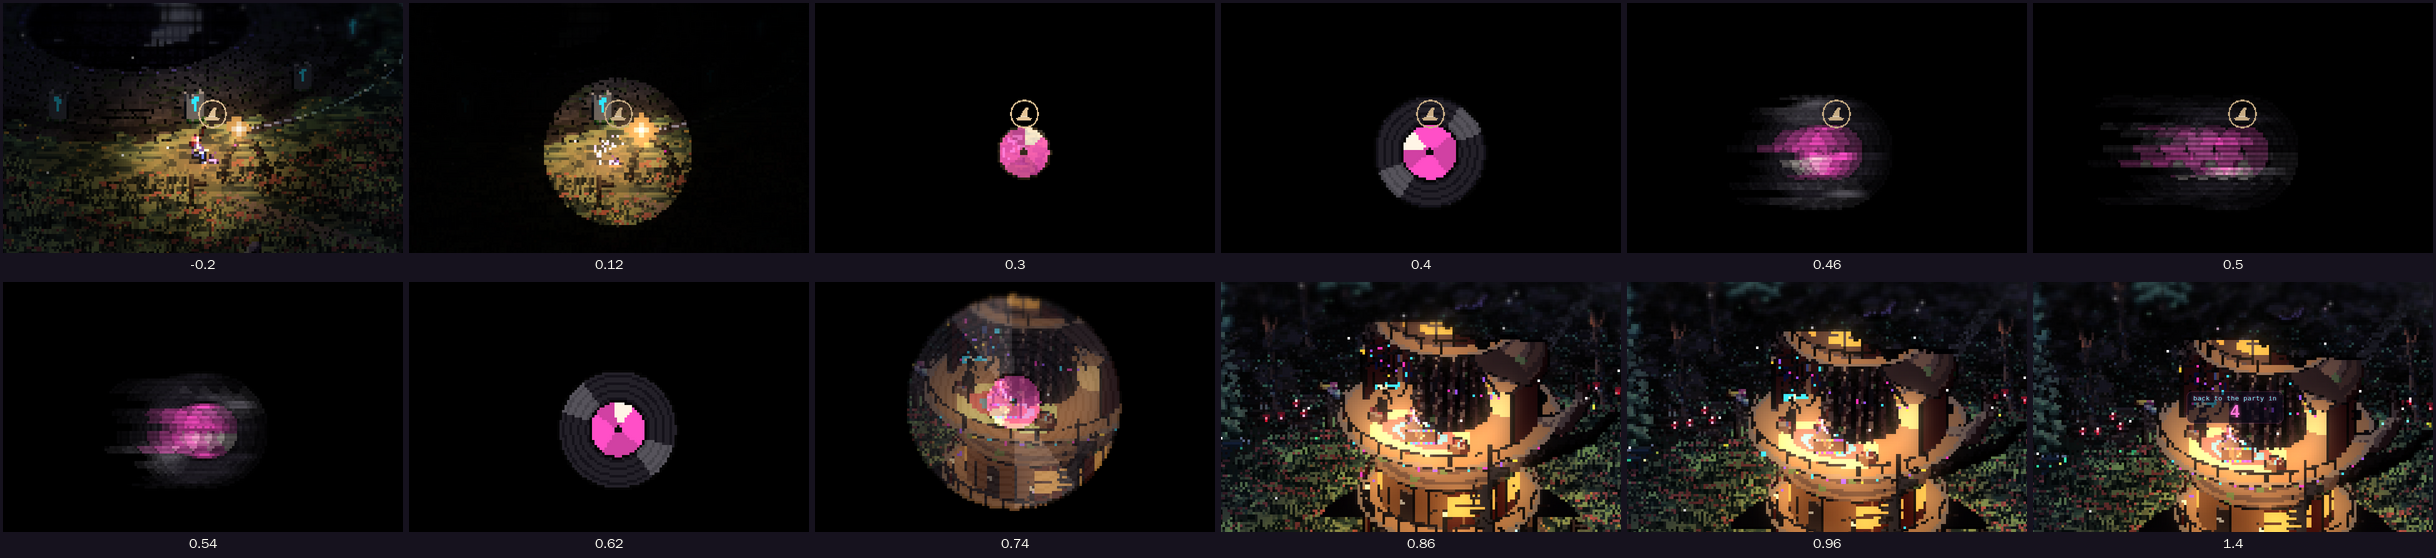
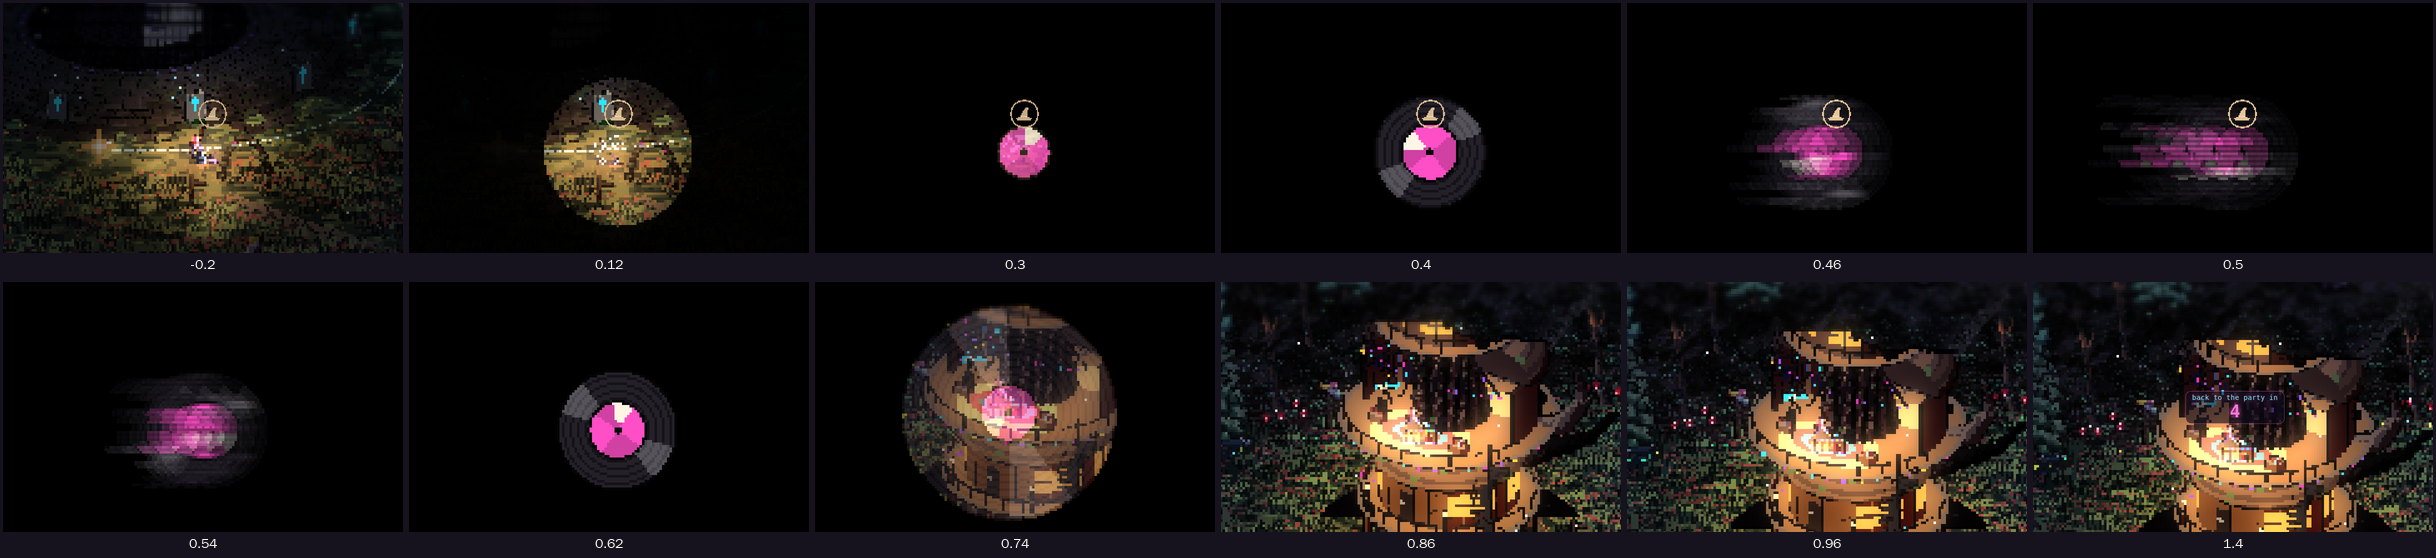
Hat iris: open on the platter (new treehouse anchor), art4's scratch frame till her routine
The treehouse gains anchors.platter (the pink-labelled turntable's centre); the iris opens on it.
From the cut to ko.inAt she's drawn in the scratch gesture's first frame, then her respawn
routine (rules/djSet.ts) takes over, as art builder 4 asked.

Claude-Session: https://claude.ai/code/session_01VVaLYY2sU2dqSozCTw7Z4G

diff --git a/art/treehouse.js b/art/treehouse.js
@@ -224,8 +224,8 @@ function treehouseModel(facing = "towards") {
   return { m, lights, dj, seat: DJ_STAND, door: [Math.cos(Math.PI / 2 + .05) * S.porch.R, S.porch.y, Math.sin(Math.PI / 2 + .05) * (S.porch.R + .05)], camera: [0, sy + .95, 1.9], splitY: sy + S.studio.h + 1.5, footprint: 4.3, crownR, trunkR: 1.55 }; // trunkR: its radius 3 m up
 }
 
-// The treehouse at the witch's scale: { whole, top, bot, fore, crownY, anchors: { base, seat, door, camera, lights: [{ x, y, rgb, kind }] }, metres }.
-// base: the trunk's foot on the ground (place the treehouse by it); seat: where her sit pose's anchor goes (the studio's floor under her
+// The treehouse at the witch's scale: { whole, top, bot, fore, crownY, anchors: { base, seat, platter, door, camera, lights: [{ x, y, rgb, kind }] }, metres }.
+// base: the trunk's foot on the ground (place the treehouse by it); platter: the pink-labelled turntable's centre (the knockout's iris opens on it, render/koIris.ts); seat: where her sit pose's anchor goes (the studio's floor under her
 // stool); door: the porch's front door; camera: the studio's middle, near her seat (to frame for the opening zoom); lights: its light sources.
 // top is the crown and everything above the studio's roof (the loft and the tower over the treeline: drawn in treetop mode, cut out round
 // the witch); bot the rest. metres: height and width; towerFloor and roofTip (the top storey's floor and the roof's tip, above the ground);
@@ -259,7 +259,7 @@ export function treehouseSprite(st = {}, { facing = "towards", ppm = 16 } = {}) 
   for (const fs of frames) for (let y = 0; y < sp.h; y++) for (let x = 0; x < sp.w; x++) if (fs.m[y * sp.w + x]) { fx0 = Math.min(fx0, x); fx1 = Math.max(fx1, x); fy0 = Math.min(fy0, y); fy1 = Math.max(fy1, y); }
   const foreFrames = frames.map(fs => { const c = new Sprite(fx1 - fx0 + 1, fy1 - fy0 + 1); for (let y = 0; y < c.h; y++) for (let x = 0; x < c.w; x++) { const i = (y + fy0) * sp.w + x + fx0; if (fs.m[i]) c.put(x, y, fs.m[i], fs.n[i * 3], fs.n[i * 3 + 1], fs.n[i * 3 + 2]); } return c; });
   const S = TREEHOUSE_STOREYS;
-  return { whole: sp, top, bot, fore, foreFrames, foreBox: { x: fx0, y: fy0 }, candles: [at(T.dj.to([DJ_DECKS.depth[1] + CANDLE.ahead, 0, DJ_DECKS.width - .1])), at(T.dj.to([DJ_DECKS.depth[1] + CANDLE.ahead, 0, -DJ_DECKS.width + .1]))], crownY, anchors: { base: at([0, 0, 0]), seat: at(T.seat), door: at(T.door), camera: at(T.camera), lights: T.lights.map(L => ({ ...at(L.at), rgb: L.rgb, kind: L.kind })) },
+  return { whole: sp, top, bot, fore, foreFrames, foreBox: { x: fx0, y: fy0 }, candles: [at(T.dj.to([DJ_DECKS.depth[1] + CANDLE.ahead, 0, DJ_DECKS.width - .1])), at(T.dj.to([DJ_DECKS.depth[1] + CANDLE.ahead, 0, -DJ_DECKS.width + .1]))], crownY, anchors: { base: at([0, 0, 0]), seat: at(T.seat), platter: at(T.dj.to([DJ_DECKS.platter.a, DJ_DECKS.top, DJ_DECKS.platter.c])), door: at(T.door), camera: at(T.camera), lights: T.lights.map(L => ({ ...at(L.at), rgb: L.rgb, kind: L.kind })) },
     metres: { height: +(sp.h / ppm).toFixed(1), width: +(sp.w / ppm).toFixed(1), towerFloor: um(S.tower.y), roofTip: um(S.tower.y + S.tower.h + 3.3 + .3), footprint: um(T.footprint), overhang: um(S.studio.deck), trunk: um(T.trunkR * 2), crown: um(T.crownR) } };
 }
 

diff --git a/tools/art-lab/dist/witch-art-lab.html b/tools/art-lab/dist/witch-art-lab.html
@@ -3442,8 +3442,8 @@ function treehouseModel(facing = "towards") {
   return { m, lights, dj, seat: DJ_STAND, door: [Math.cos(Math.PI / 2 + .05) * S.porch.R, S.porch.y, Math.sin(Math.PI / 2 + .05) * (S.porch.R + .05)], camera: [0, sy + .95, 1.9], splitY: sy + S.studio.h + 1.5, footprint: 4.3, crownR, trunkR: 1.55 }; // trunkR: its radius 3 m up
 }
 
-// The treehouse at the witch's scale: { whole, top, bot, fore, crownY, anchors: { base, seat, door, camera, lights: [{ x, y, rgb, kind }] }, metres }.
-// base: the trunk's foot on the ground (place the treehouse by it); seat: where her sit pose's anchor goes (the studio's floor under her
+// The treehouse at the witch's scale: { whole, top, bot, fore, crownY, anchors: { base, seat, platter, door, camera, lights: [{ x, y, rgb, kind }] }, metres }.
+// base: the trunk's foot on the ground (place the treehouse by it); platter: the pink-labelled turntable's centre (the knockout's iris opens on it, render/koIris.ts); seat: where her sit pose's anchor goes (the studio's floor under her
 // stool); door: the porch's front door; camera: the studio's middle, near her seat (to frame for the opening zoom); lights: its light sources.
 // top is the crown and everything above the studio's roof (the loft and the tower over the treeline: drawn in treetop mode, cut out round
 // the witch); bot the rest. metres: height and width; towerFloor and roofTip (the top storey's floor and the roof's tip, above the ground);
@@ -3477,7 +3477,7 @@ function treehouseSprite(st = {}, { facing = "towards", ppm = 16 } = {}) {
   for (const fs of frames) for (let y = 0; y < sp.h; y++) for (let x = 0; x < sp.w; x++) if (fs.m[y * sp.w + x]) { fx0 = Math.min(fx0, x); fx1 = Math.max(fx1, x); fy0 = Math.min(fy0, y); fy1 = Math.max(fy1, y); }
   const foreFrames = frames.map(fs => { const c = new Sprite(fx1 - fx0 + 1, fy1 - fy0 + 1); for (let y = 0; y < c.h; y++) for (let x = 0; x < c.w; x++) { const i = (y + fy0) * sp.w + x + fx0; if (fs.m[i]) c.put(x, y, fs.m[i], fs.n[i * 3], fs.n[i * 3 + 1], fs.n[i * 3 + 2]); } return c; });
   const S = TREEHOUSE_STOREYS;
-  return { whole: sp, top, bot, fore, foreFrames, foreBox: { x: fx0, y: fy0 }, candles: [at(T.dj.to([DJ_DECKS.depth[1] + CANDLE.ahead, 0, DJ_DECKS.width - .1])), at(T.dj.to([DJ_DECKS.depth[1] + CANDLE.ahead, 0, -DJ_DECKS.width + .1]))], crownY, anchors: { base: at([0, 0, 0]), seat: at(T.seat), door: at(T.door), camera: at(T.camera), lights: T.lights.map(L => ({ ...at(L.at), rgb: L.rgb, kind: L.kind })) },
+  return { whole: sp, top, bot, fore, foreFrames, foreBox: { x: fx0, y: fy0 }, candles: [at(T.dj.to([DJ_DECKS.depth[1] + CANDLE.ahead, 0, DJ_DECKS.width - .1])), at(T.dj.to([DJ_DECKS.depth[1] + CANDLE.ahead, 0, -DJ_DECKS.width + .1]))], crownY, anchors: { base: at([0, 0, 0]), seat: at(T.seat), platter: at(T.dj.to([DJ_DECKS.platter.a, DJ_DECKS.top, DJ_DECKS.platter.c])), door: at(T.door), camera: at(T.camera), lights: T.lights.map(L => ({ ...at(L.at), rgb: L.rgb, kind: L.kind })) },
     metres: { height: +(sp.h / ppm).toFixed(1), width: +(sp.w / ppm).toFixed(1), towerFloor: um(S.tower.y), roofTip: um(S.tower.y + S.tower.h + 3.3 + .3), footprint: um(T.footprint), overhang: um(S.studio.deck), trunk: um(T.trunkR * 2), crown: um(T.crownR) } };
 }
 

diff --git a/src/render/view/witch.ts b/src/render/view/witch.ts
@@ -96,7 +96,8 @@ export function drawWitch(v: View, time: number, ht: number, onTreehouse: (px: n
       else {
         // Her set's routine (rules/djSet.ts: the needle drop after the cast, the scratching after a respawn) over her ordinary set.
         const R = djRoutineAt(g, time);
-        const j = R ? v.assets.djGestureFrame(R.gesture, R.frame) : v.assets.djFrame(beatAt(g.beat, time), casting, respawnLeft(g.witches[0].ko, ht) !== null || (!!KO && irisOn && ht >= atDecksFrom(KO, true))); // (mid-scratch already as the iris opens on her) // (its fallback: scratching through a knockout's wait, rules/knockout.ts)
+        // (from the iris's cut, render/koIris.ts, to her respawn routine at ko.inAt: her hand on the record, mid-scratch, as it opens on her)
+        const j = R ? v.assets.djGestureFrame(R.gesture, R.frame) : KO && irisOn && ht >= atDecksFrom(KO, true) && ht < KO.inAt ? v.assets.djGestureFrame("scratch", 0) : v.assets.djFrame(beatAt(g.beat, time), casting, respawnLeft(g.witches[0].ko, ht) !== null); // (its fallback: scratching through a knockout's wait, rules/knockout.ts)
         wf = Dj.full[j]; djUpper = Dj.upper[j];
       }
       if (typeof sp === "number" && sp !== v.castSeen) { v.castSeen = sp; v.spellFx.partyBurst(wx, wyy, wz, sp); }
@@ -165,7 +166,7 @@ export function drawWitch(v: View, time: number, ht: number, onTreehouse: (px: n
   v.post.koDim = KO && hat && KD > 0 ? KD * Math.min(1, Math.max(0, (ht - KO.at) / 0.5)) * (IR ? (IR.on === "hat" ? 1 : 0) : 1 - Math.min(1, Math.max(0, (ht - KO.teleportAt) / 0.6))) : 0;
   if (IR) {
     // on the hat, then from where it was on screen over to her at the decks as it opens (no jump at the cut)
-    let ctr = IR.on === "hat" ? onScreen(v, hat!.x, hat!.y + groundHeight(hat!.x, hat!.z) + hatFrame!.h * v.mpp * 0.3, hat!.z) : onScreen(v, wx, wyy + groundHeight(wx, wz) + (hatTop - wyy) * 0.4, wz);
+    let ctr = IR.on === "hat" ? onScreen(v, hat!.x, hat!.y + groundHeight(hat!.x, hat!.z) + hatFrame!.h * v.mpp * 0.3, hat!.z) : T.platter ? (({ x, y, z }) => onScreen(v, x, y, z))(onTreehouse(T.platter.x, T.platter.y)) : onScreen(v, wx, wyy + groundHeight(wx, wz) + (hatTop - wyy) * 0.4, wz); // (on the record under her hand: the treehouse's platter anchor)
     if (IR.on === "hat") v.irisHat = ctr; else if (v.irisHat) ctr = [v.irisHat[0] + (ctr[0] - v.irisHat[0]) * IR.move, v.irisHat[1] + (ctr[1] - v.irisHat[1]) * IR.move];
     v.post.iris.set(ctr[0], ctr[1], IR.r, IR.dark); v.post.iris2.set(IR.spin, IR.label, IR.smear, IR.labelR);
   } else { v.post.iris.set(0, 0, 0, 0); v.post.iris2.set(0, 0, 0, 0); }

diff --git a/src/render/homeArt.ts b/src/render/homeArt.ts
@@ -107,13 +107,13 @@ export function soundsystemSprites(style: Style, mk: MakeCanvas): Baked[] {
 
 /** The treehouse's anchors in its sprite's pixels: the trunk's foot, her seat on the terrace, the opening shot's camera, its lights;
  *  and the DJ table's frames (cropped to the box whose top-left is foreBox in the base's pixels). */
-export interface TreehouseArt { base: { x: number; y: number }; seat: { x: number; y: number }; camera: { x: number; y: number }; hasFore: boolean; lights: { x: number; y: number; rgb: number[]; kind: string }[]; foreFrames: number; foreBox: { x: number; y: number };
+export interface TreehouseArt { base: { x: number; y: number }; seat: { x: number; y: number }; platter?: { x: number; y: number }; camera: { x: number; y: number }; hasFore: boolean; lights: { x: number; y: number; rgb: number[]; kind: string }[]; foreFrames: number; foreBox: { x: number; y: number };
   /** The knockdown candles: their first frame (white, then red from candleRed on; level × flicker), levels, flickers, and their row along the desk's front (its ends, base pixels). */
   candle0: number; candleRed: number; candleLevels: number; candleFlicker: number; candleRow: { x: number; y: number }[] }
 
 /** The witch's treehouse: frames 0 its base, 1 its top (treetop mode), 2 on the studio's DJ table alone, turning (drawn over her). */
 export function treehouseSprites(style: Style, mk: MakeCanvas): { sprites: Baked[]; treehouse: TreehouseArt } {
-  const th = Art.treehouseSprite(style) as { bot: unknown; top: unknown; foreFrames?: unknown[]; foreBox?: { x: number; y: number }; candles?: { x: number; y: number }[]; anchors: { base: { x: number; y: number }; seat: { x: number; y: number }; camera?: { x: number; y: number }; lights: { x: number; y: number; rgb: number[]; kind: string }[] } };
+  const th = Art.treehouseSprite(style) as { bot: unknown; top: unknown; foreFrames?: unknown[]; foreBox?: { x: number; y: number }; candles?: { x: number; y: number }[]; anchors: { base: { x: number; y: number }; seat: { x: number; y: number }; platter?: { x: number; y: number }; camera?: { x: number; y: number }; lights: { x: number; y: number; rgb: number[]; kind: string }[] } };
   const thc = Art.treehouseColours(style);
   // Its model draws a hard dark shadow ellipse on the ground round the trunk's foot: drop it (a
   // soft contact shadow goes there instead), as Ed asked for set pieces.

diff --git a/src/render/assets.ts b/src/render/assets.ts
@@ -67,7 +67,7 @@ export class AssetLibrary {
   soundsystems: Atlas = placeholderAtlas(16);
   /** The witch's treehouse: its base (frame 0) and top (frame 1, the crown: treetop mode), and
    *  anchors in its sprite's pixels: the trunk's foot, her seat on the terrace, its lights. */
-  treehouse: { atlas: Atlas; base: { x: number; y: number }; seat: { x: number; y: number }; camera: { x: number; y: number }; hasFore: boolean; lights: { x: number; y: number; rgb: number[]; kind: string }[];
+  treehouse: { atlas: Atlas; base: { x: number; y: number }; seat: { x: number; y: number }; platter?: { x: number; y: number }; camera: { x: number; y: number }; hasFore: boolean; lights: { x: number; y: number; rgb: number[]; kind: string }[];
     /** The DJ table's frames (2 on: the platters turning, the LEDs chasing), cropped to the box whose top-left is foreBox in the base's pixels. */
     foreFrames: number; foreBox: { x: number; y: number };
     /** The knockdown candles (Art.candleSprite: white then red from candleRed on, level × flicker, from frame candle0) and their row along the desk's front (its ends, in the base's pixels). */
